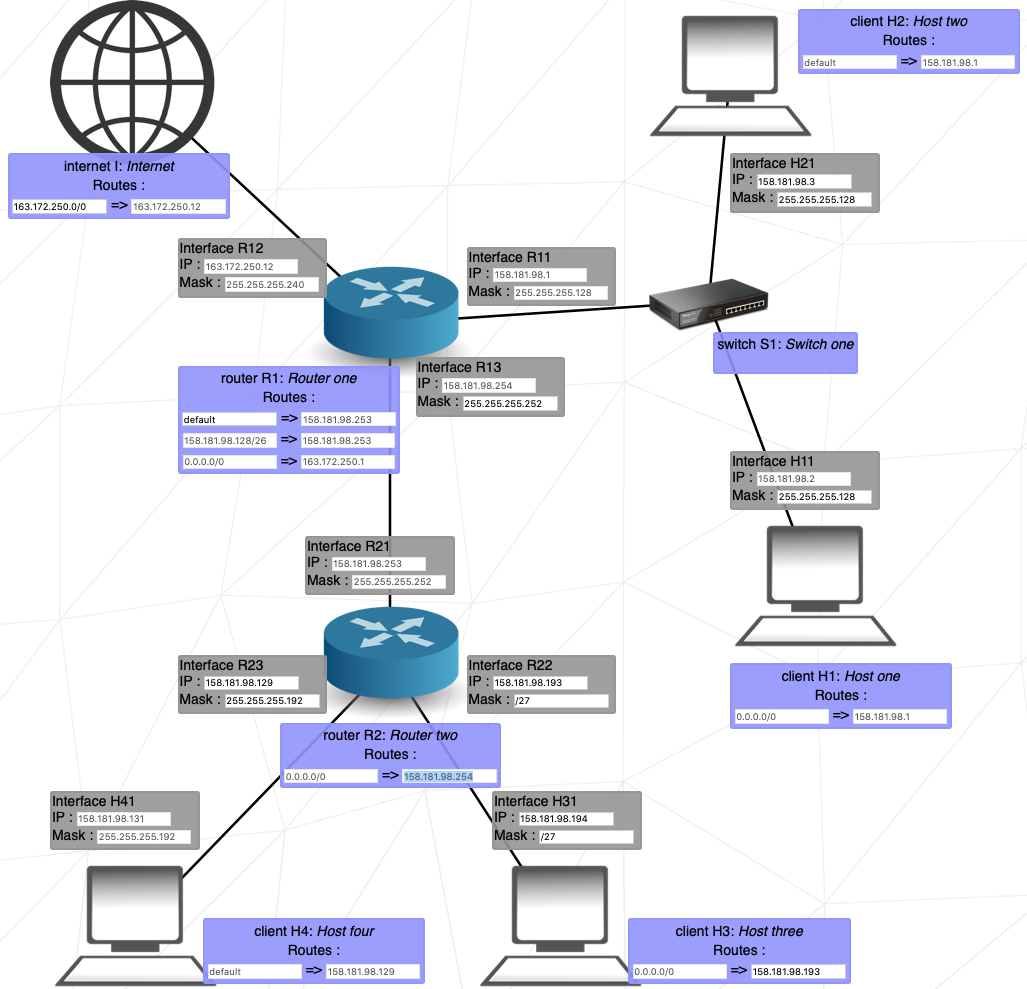
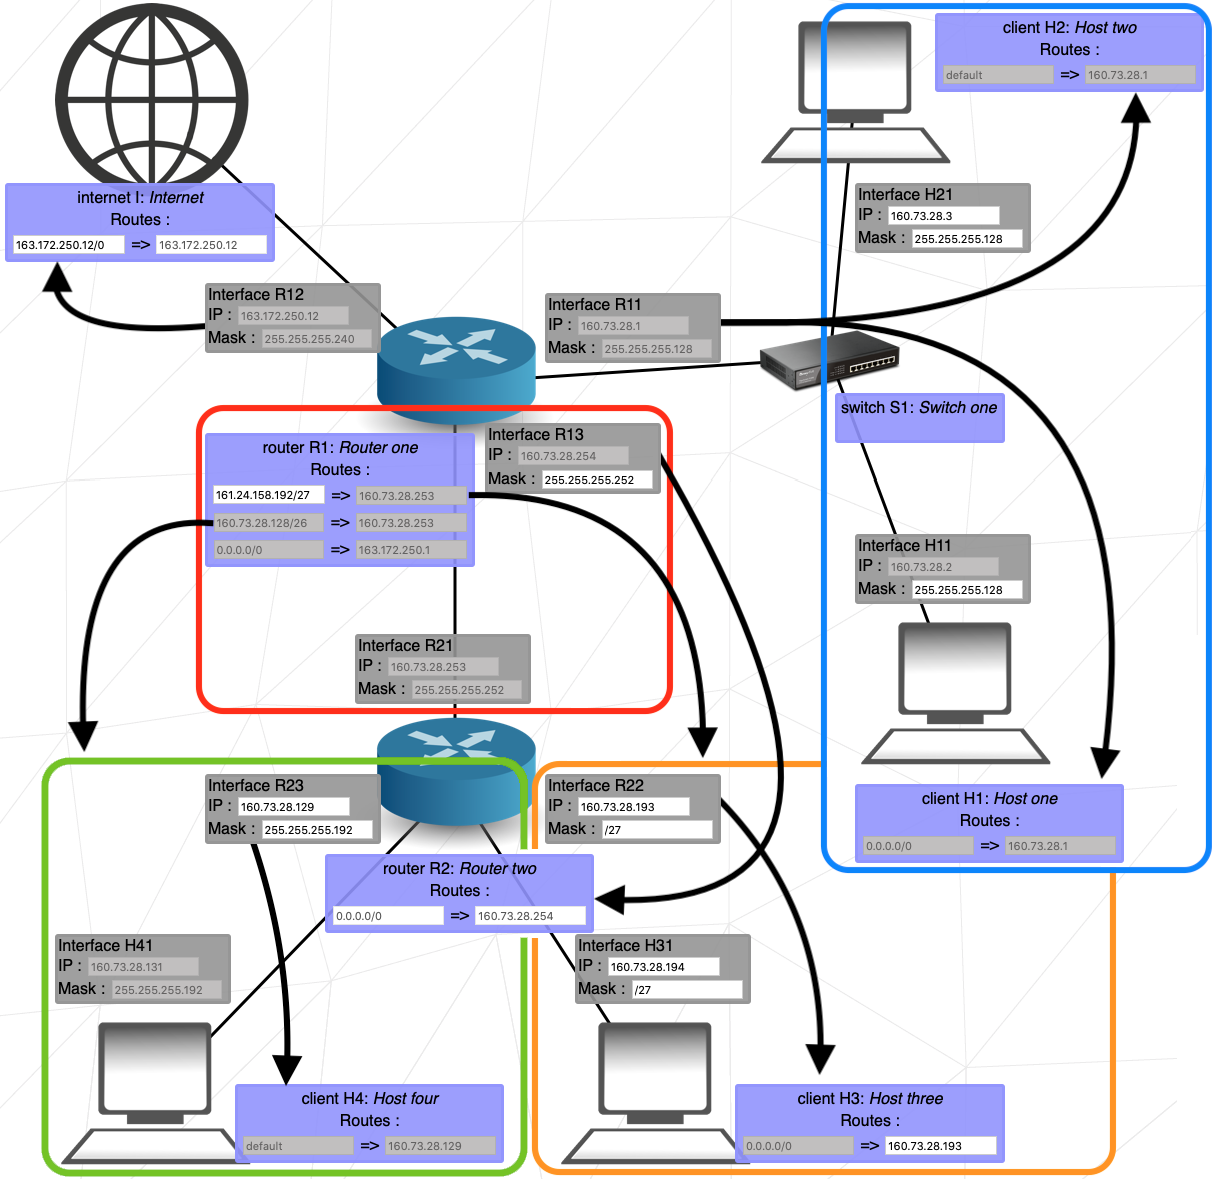
level 6 & 10

Changed region(s): [[0.0312, 0.0, 1.0, 1.0], [0.0, 0.0, 0.2493, 0.273], [0.0935, 0.455, 0.1246, 0.4853]]

diff --git a/docs/.vitepress/config.ts b/docs/.vitepress/config.ts
@@ -143,8 +143,16 @@ function siderbar() {
           ]
         },
         {
+          text: "bc",
+          link: "/guias/bc",
+        },
+        {
           text: "Tipos de redes",
           link: "/guias/basico/tipos",
+        },
+        {
+          text: "Level 6",
+          link: "/guias/level_6",
         },
         {
           text: "Level 7",
@@ -159,16 +167,20 @@ function siderbar() {
           link: "/guias/level_9",
         },
         {
-          text: "Ejemplos",
-          link: "/guias/ejemplo/",
-          collapsed: true,
-          items: [
-            // {
-            //   text: "Style",
-            //   link: "/guias/ejemplo/style",
-            // }
-          ]
-        }
+          text: "Level 10",
+          link: "/guias/level_10",
+        },
+        // {
+        //   text: "Ejemplos",
+        //   link: "/guias/ejemplo/",
+        //   collapsed: true,
+        //   items: [
+        //     // {
+        //     //   text: "Style",
+        //     //   link: "/guias/ejemplo/style",
+        //     // }
+        //   ]
+        // }
       ],
     },
     {

diff --git a/docs/guias/level_10.md b/docs/guias/level_10.md
@@ -1,0 +1,32 @@
+
+# Red jerarquica
+
+La configuración en cascada de redes, en la que se tienen múltiples subredes conectadas a través de un conjunto de routers, es comúnmente conocida como una "topología de red jerárquica" o "red jerárquica". En esta configuración, los routers actúan como puntos de conexión entre las diferentes subredes, facilitando el enrutamiento del tráfico de datos entre ellas.
+
+<div align=center>
+<img src="/assets/Level_10.png" alt="Level_10" />
+</div>
+
+
+1. **Subred A: 160.73.28.1/25** (Azul)
+   - **Rango de direcciones:** 160.73.28.1 a 160.73.28.126
+   - **Longitud del prefijo de red:** 25 bits
+   - **Número de direcciones en la subred:** $(2^{32-25} = 2^7 = 128)$ hosts
+   - **Dirección de red:** 160.73.28.0
+   - **Dirección de broadcast:** `160.73.28.127`
+
+2. **Subred B: 160.73.28.129/26** (Verde)
+   - **Rango de direcciones:** 160.73.28.129 a 160.73.28.190
+   - **Longitud del prefijo de red:** 26 bits
+   - **Número de direcciones en la subred:** $(2^{32-26} = 2^6 = 64)$ hots
+   - **Dirección de red:** 160.73.28.128
+   - **Dirección de broadcast:** `160.73.28.191`
+
+3. **Subred C: 160.73.28.193/27** (Naranja)
+   - **Rango de direcciones:** 160.73.28.193 a 160.73.28.222
+   - **Longitud del prefijo de red:** 27 bits
+   - **Número de direcciones en la subred:** $(2^{32-27} = 2^5 = 32)$ hots
+   - **Dirección de red:** `160.73.28.192`
+   - **Dirección de broadcast:** 160.73.28.223
+
+Podemos apreciar que la topología  es en cascada el primer rango de red es para la red azul `160.73.28.127`, donde se acaba esta empieza el siguiente red Verde `160.73.28.128` y su primer hots disponible `160.73.28.129` de esta forma podemos calcular la red Naranja, dirección de red `160.73.28.192` primer host `160.73.28.193`

diff --git a/docs/guias/bc.md b/docs/guias/bc.md
@@ -1,0 +1,39 @@
+# bc
+
+Es una herramienta de línea de comandos que proporciona una calculadora de precisión arbitraria. 
+
+Su nombre es una abreviatura de `basic calculator`, y está diseñada para realizar operaciones matemáticas con números de punto flotante de alta precisión.
+
+- **Sintaxis de Estilo C:**
+
+La sintaxis de las expresiones en bc es similar a la de C. Puedes realizar operaciones aritméticas básicas, funciones matemáticas y asignaciones de variables.
+
+- ** Soporte de Bases Numéricas:**
+bc admite diversas bases numéricas, incluyendo binario (base 2), octal (base 8), decimal (base 10) y hexadecimal (base 16).
+
+- **Operaciones Avanzadas:** Además de las operaciones aritméticas básicas, bc permite realizar funciones matemáticas más avanzadas, como raíces cuadradas, exponenciación y funciones trigonométricas.
+
+## Pasar deciamal a binario.
+
+```shell
+bc <<< "obase=2;240"
+```
+
+```shell
+echo "obase=2; 240" | bc
+```
+<Badge type="info" text="output" />
+```shell
+11110000
+```
+
+## Pasr binario a decimal
+
+```shell
+bc <<< "obase=10; ibase=2; 11100000"
+```
+
+```shell
+echo "obase=10; ibase=2; 11110000" | bc
+```
+

diff --git a/docs/guias/level_6.md b/docs/guias/level_6.md
@@ -1,0 +1,18 @@
+# Level 6
+
+<div align=center>
+<img src="/assets/Level_6.png" alt="Level_6" />
+</div>
+
+- Disponemos de la mascara `255.255.255.128` de la interface `R1` del router.
+- Disponemos de la IP `44.223.134.227` del host `A1`.
+
+
+1. **red naranja: 44.223.134.128/25**
+   - **Rango de direcciones:** 44.223.134.129 a 44.223.134.254
+   - **Longitud del prefijo de red:** 25 bits
+   - **Número de direcciones en la subred:** $(2^{32-25} = 2^7 = 128)$ hosts
+   - **Dirección de red:** `44.223.134.128`
+   - **Dirección de broadcast:** 160.73.28.255
+
+En la tabla de enrutamiento del `internet I` debe de dar acceso a la red Naranja, podemos poner directamente la IP del host `R1` `44.223.134.226/` pero lo correcto seria poner toda la dirección de red a la que se quiere dar conectividad `44.223.134.128/25`
